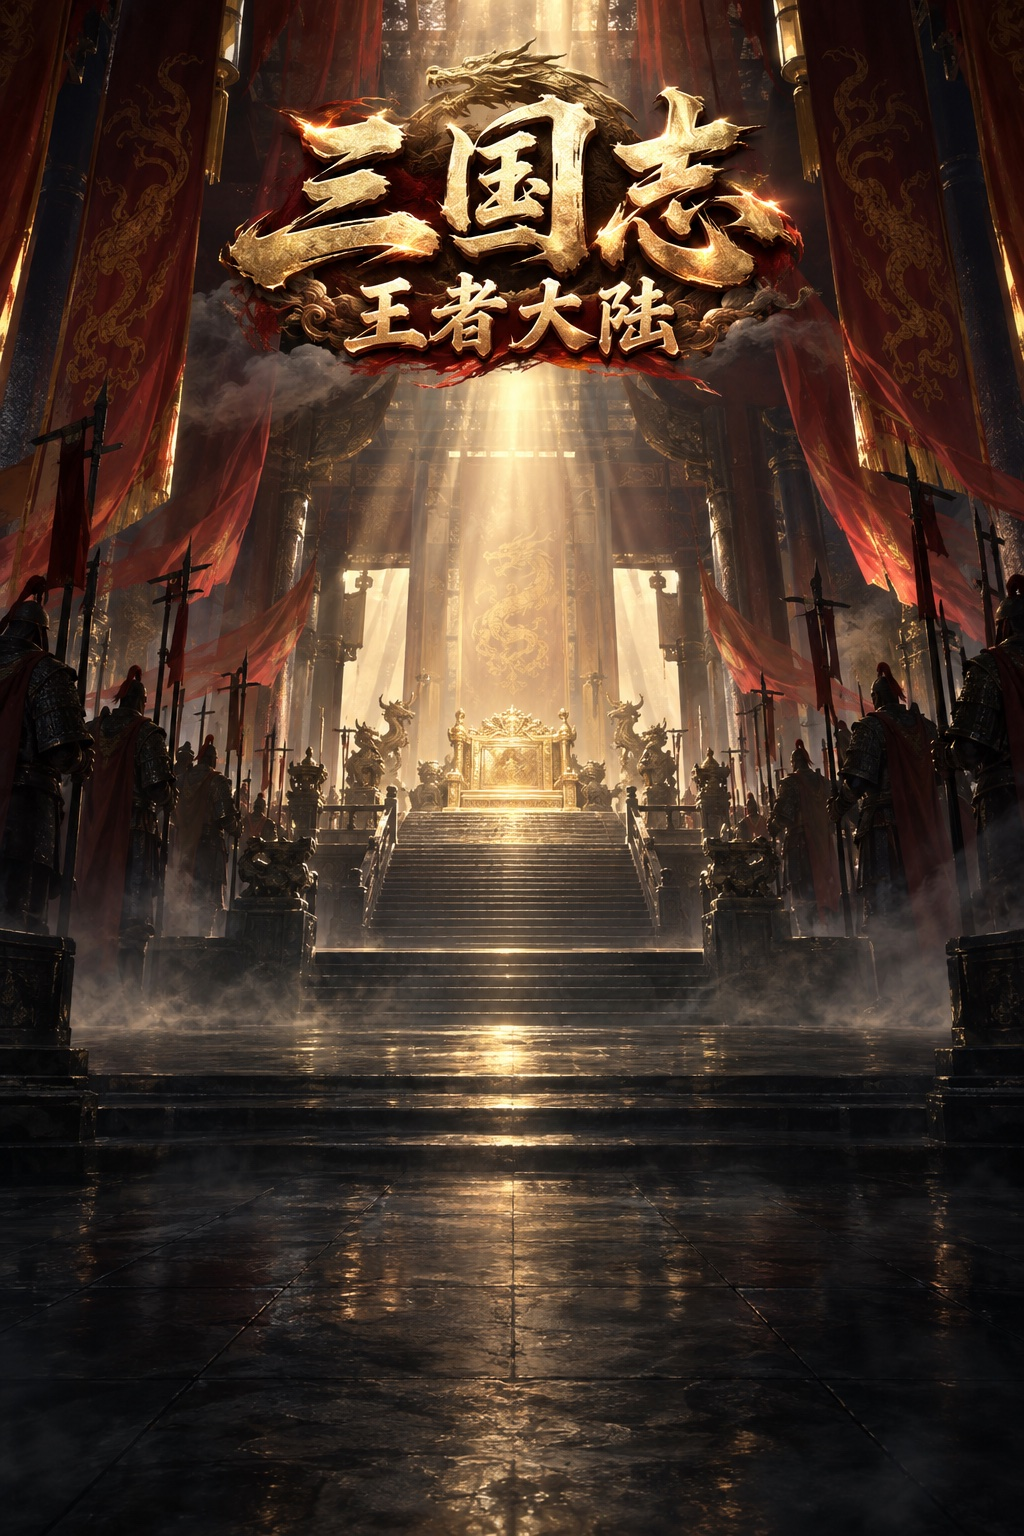
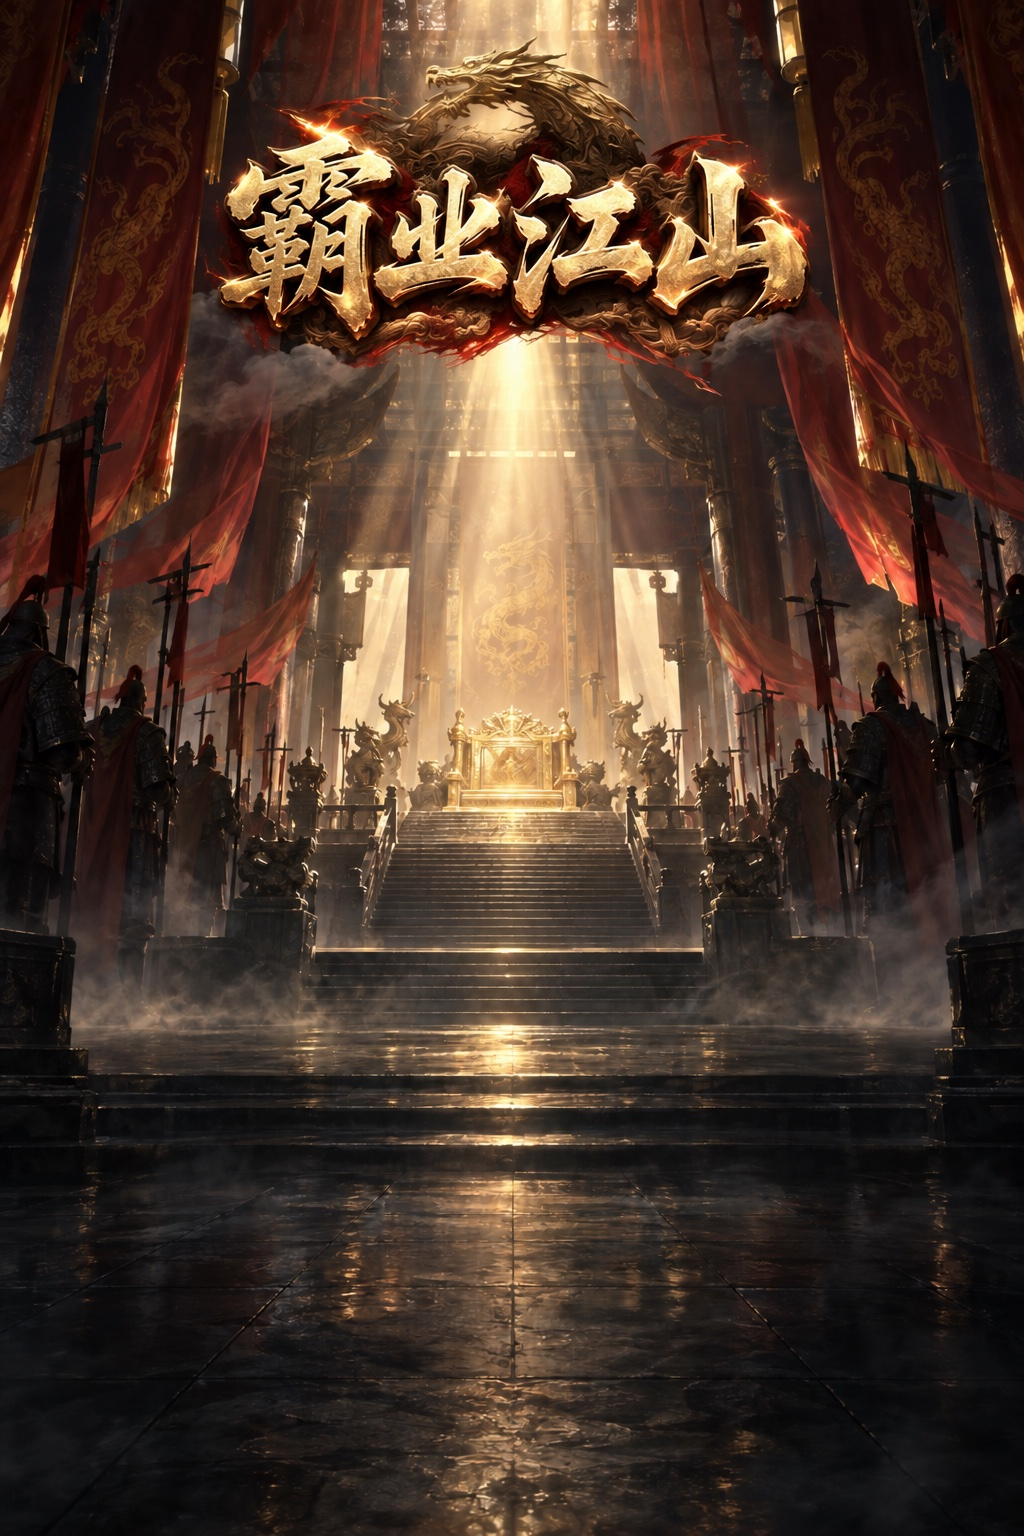
改名「霸业江山」：8 张封面换标题（画面保留）、图标、桌面名、帮助文字

diff --git a/image-studio/titlecover.js b/image-studio/titlecover.js
@@ -35,3 +35,17 @@ const buildTitleCovers = () => THEMES.map(([k, scene], i) => ({
 
 module.exports = { buildTitleCovers };
 if (require.main === module) process.stdout.write(JSON.stringify(buildTitleCovers(), null, 1));
+
+/* 2026-09-26 改名「霸业江山」：以现有 8 张封面为参考图（refItem），画面不动、只换标题 */
+const RENAME =
+  '以参考图为唯一依据，画面的构图、人物、姿势、场景、天气、光影、配色、笔触全部保持不变，就像同一张画。' +
+  '只改一处：画面上方的游戏标题。把原来的两行标题文字（「三国志」和「王者大陆」）完全去掉，' +
+  '在同一位置换成一行鎏金书法大字「霸业江山」——只有这四个汉字，一字不多、一字不少、一笔不错。' +
+  '新标题延续原标题的风格：精雕细琢的书法字体标志，鎏金金属质感、立体浮雕、描边与高光，和画面光效融为一体（火光、烟尘、光晕照在字上），' +
+  '水平居中，整体宽度约为画面宽度的六成，不要比原标题更靠下。' +
+  '\n\n绝对禁止：出现「三国志」「王者大陆」的任何残留笔画；标题以外的任何文字、字母、数字、印章、签名、水印；标题错字、多字、少字；改变画面其他任何部分。';
+const buildRenameCovers = () => THEMES.map(([k], i) => ({
+  id: 'title_cover2_' + i, category: 'cg', label: '主界面封面·' + k + '（霸业江山）', meta: { 用途: '主界面随机封面 改名 ' + (i + 1) + '/8' },
+  source: null, size: '1024x1536', refItem: 'title_cover_' + i, prompt: RENAME, status: 'idle', attempts: 0,
+}));
+module.exports.buildRenameCovers = buildRenameCovers;

diff --git a/unity/SangoCityView/Assets/Scripts/TitleView.cs b/unity/SangoCityView/Assets/Scripts/TitleView.cs
@@ -1,4 +1,4 @@
-// 主界面：封面（平台 title_cover_0..7 → Art/title/cover_*.jpg，标题「三国志 王者大陆」画在图里，每次启动随机一张）+ 五项菜单。
+// 主界面：封面（平台 title_cover2_0..7（以 title_cover_0..7 为参考改标题）→ Art/title/cover_*.jpg，标题「霸业江山」画在图里，每次启动随机一张）+ 五项菜单。
 // 没有封面图时退回旧的 title.jpg + 文字标题。
 // 原版开机是 JustGame 的标题画面接「新游戏 / 继续」；图还没到的时候退回城内那张木板底。
 using UnityEngine;
@@ -32,7 +32,7 @@ public class TitleView : SheetView
     {
         var bg = Node("bg", Root).gameObject.AddComponent<RawImage>();
         var tex = Cover();
-        bool baked = tex != null;                                   // 新封面：标题「三国志 王者大陆」画在图里
+        bool baked = tex != null;                                   // 新封面：标题「霸业江山」画在图里
         if (!baked) tex = TryLoad("title.jpg") ?? Load("bg.jpg");
         bg.texture = tex;
         // 铺满屏幕、按比例裁边（cover），竖图在瘦长屏上不留黑边
@@ -43,9 +43,9 @@ public class TitleView : SheetView
         {
             var shade = Node("shade", Root).gameObject.AddComponent<Image>();      // 压暗一层，字和按钮才站得住
             Fill((RectTransform)shade.transform); shade.color = new Color(0, 0, 0, .28f); shade.raycastTarget = false;
-            var t1 = Label(Root, "三 国 志", 44, new Color32(0xF6,0xE3,0xB0,255), TextAnchor.MiddleCenter, FontStyle.Bold);
+            var t1 = Label(Root, "霸 业 江 山", 44, new Color32(0xF6,0xE3,0xB0,255), TextAnchor.MiddleCenter, FontStyle.Bold);
             Place(t1.rectTransform, 0, h * .14f, w, 60);
-            var t2 = Label(Root, "王 者 大 陆", 24, new Color32(0xE8,0xC0,0x6A,255), TextAnchor.MiddleCenter, FontStyle.Bold);
+            var t2 = Label(Root, "", 24, new Color32(0xE8,0xC0,0x6A,255), TextAnchor.MiddleCenter, FontStyle.Bold);
             Place(t2.rectTransform, 0, h * .14f + 62, w, 34);
             foreach (var t in new[] { t1, t2 })
             {

diff --git a/unity/SangoCityView/Assets/Scripts/SettingsView.cs b/unity/SangoCityView/Assets/Scripts/SettingsView.cs
@@ -73,7 +73,7 @@ public class SettingsView : SheetView
         float h = Mathf.Min(refH - 60, 460);
         var box = Sheet("游戏帮助", h);
         float w = box.sizeDelta.x;
-        var l = Label(box, "《三国志王者大陆》采用了指令牌游戏系统，君主拥有城数越多，每月可以发布指令的令牌越多。在只有一座城的情况下每月只可以做三件事。" +
+        var l = Label(box, "《霸业江山》采用了指令牌游戏系统，君主拥有城数越多，每月可以发布指令的令牌越多。在只有一座城的情况下每月只可以做三件事。" +
             "搜索武将主要取决于君主的德行，德行值越高越容易让武将加入旗下。游戏中还首创了以人望值决定行动力的概念。" +
             "外交策略共有三项，分别为同盟、离间和招揽。同盟是与其它国家签定互不侵犯条约，离间用来降低敌方武将的忠诚度，招揽即将对方武将拉至麾下。" +
             "游戏最大的亮点还是在于其战争系统，阵型的设定和重大作用让战争过程充满策略性。\n\n" +

diff --git a/unity/SangoCityView/Assets/Editor/Builder.cs b/unity/SangoCityView/Assets/Editor/Builder.cs
@@ -121,13 +121,13 @@ public static class Builder
     }
 
     /// 出 iOS 的 Xcode 工程（Build/iOS），自动签名用玩家自己的开发者团队。
-    /// 桌面名「三国志王者大陆」；productName 只在这里改，BuildMac 会改回 SangoCityView（Mac 版存档位置靠它）。
+    /// 桌面名「霸业江山」；productName 只在这里改，BuildMac 会改回 SangoCityView（Mac 版存档位置靠它）。
     public const string IOS_TEAM = "N4SK575992", IOS_BUNDLE = "com.jingtaoliang.sgwzdl";
     public static void BuildIOS()
     {
         MakeScene();
         PlayerSettings.companyName = "sango";
-        PlayerSettings.productName = "三国志王者大陆";
+        PlayerSettings.productName = "霸业江山";
         PlayerSettings.SetApplicationIdentifier(UnityEditor.Build.NamedBuildTarget.iOS, IOS_BUNDLE);
         PlayerSettings.bundleVersion = "0.1";
         PlayerSettings.iOS.buildNumber = System.DateTime.Now.ToString("yyMMddHHmm");

diff --git a/docs/HOUSE_RULES.md b/docs/HOUSE_RULES.md
@@ -415,3 +415,7 @@ lo = n2 / 2;  hi = n2 - 1
 - 自动存档（save_3.json）：每个玩家回合开始自动写一档，读档列表多一行「自动存档」，不能手动存进去。
 - 守城时敌方主将倒下写成「敌方全军逃窜! X 守住了!」（以前误走攻城的 TakeCity，写成「我军攻占了 X」，还把敌军携带的金粮并进了我方城库）。
 - 回大地图（从城里出来、打完仗重建界面后）镜头对准当前所在的城，不再固定陈留。
+
+## 改名「霸业江山」（2026-09-26，为 TestFlight 分发、避开「三国志」商标）
+- 8 张封面以原图为参考（平台 title_cover2_0..7，refItem = title_cover_0..7）只换标题，画面保留；App 图标从新封面 5 重新裁。
+- iOS 桌面名 productName「霸业江山」、游戏帮助第一句同步改；Mac 版 productName 仍是 SangoCityView（存档位置靠它）。
